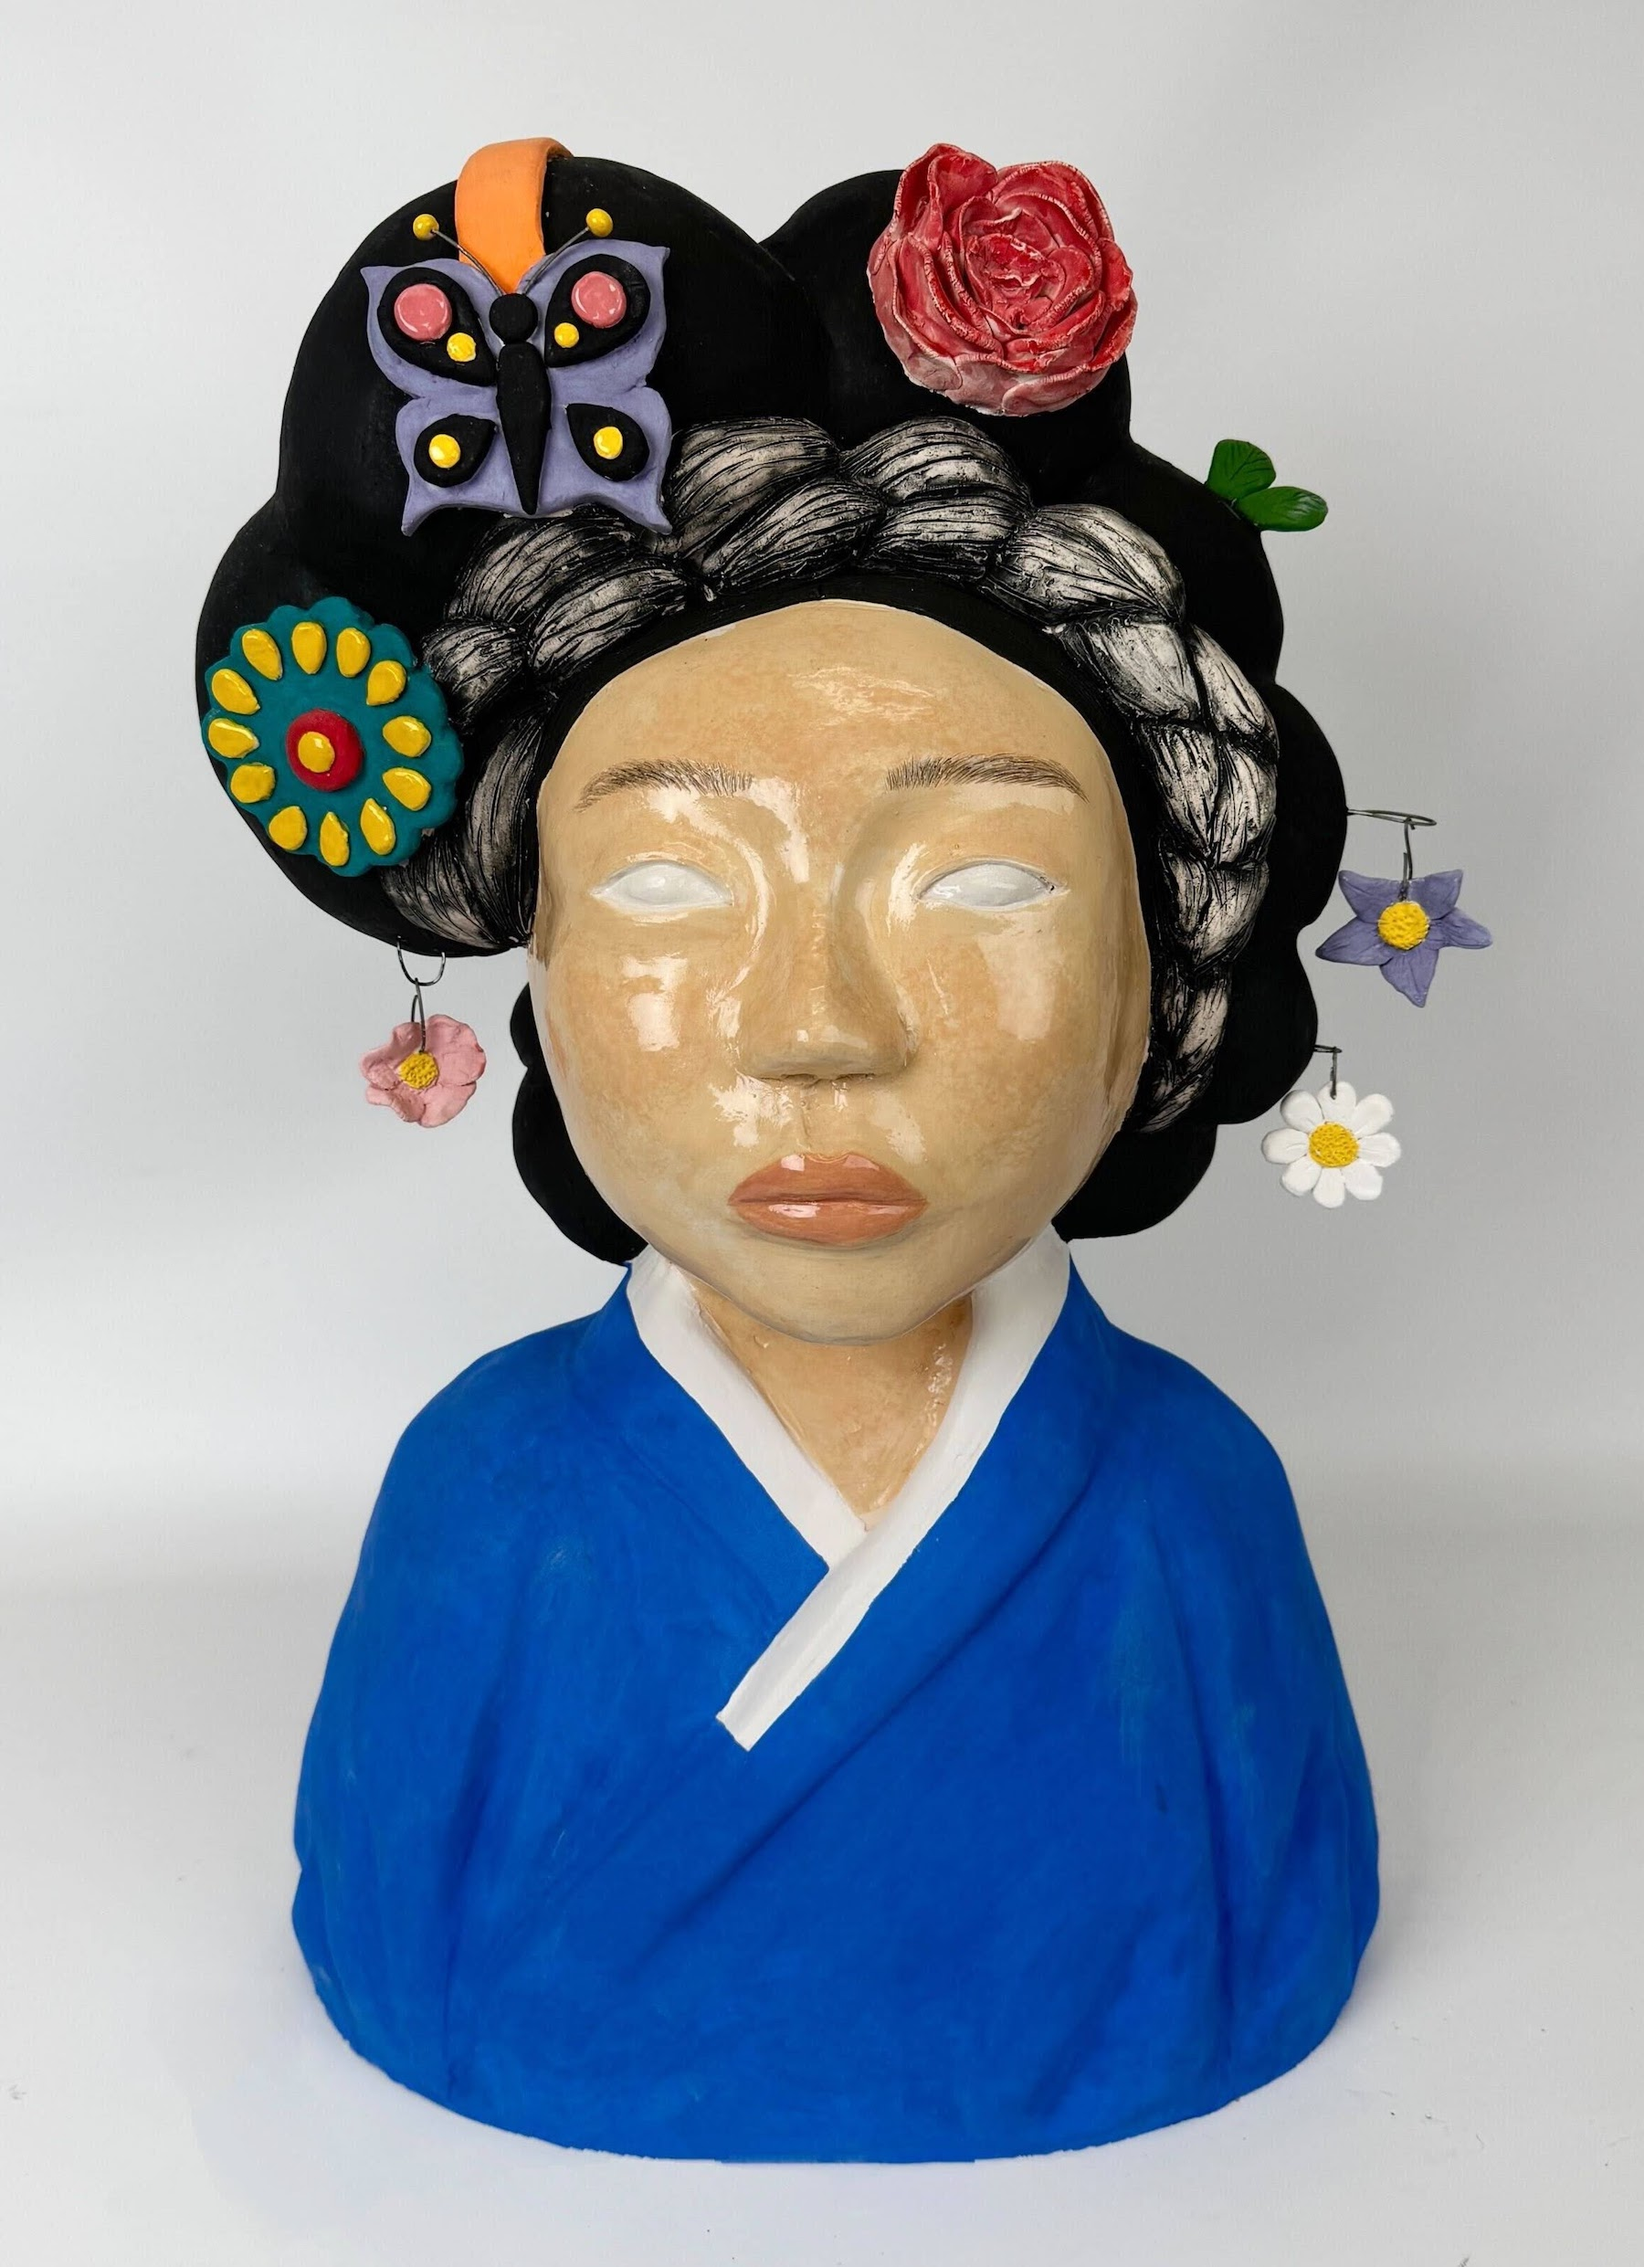
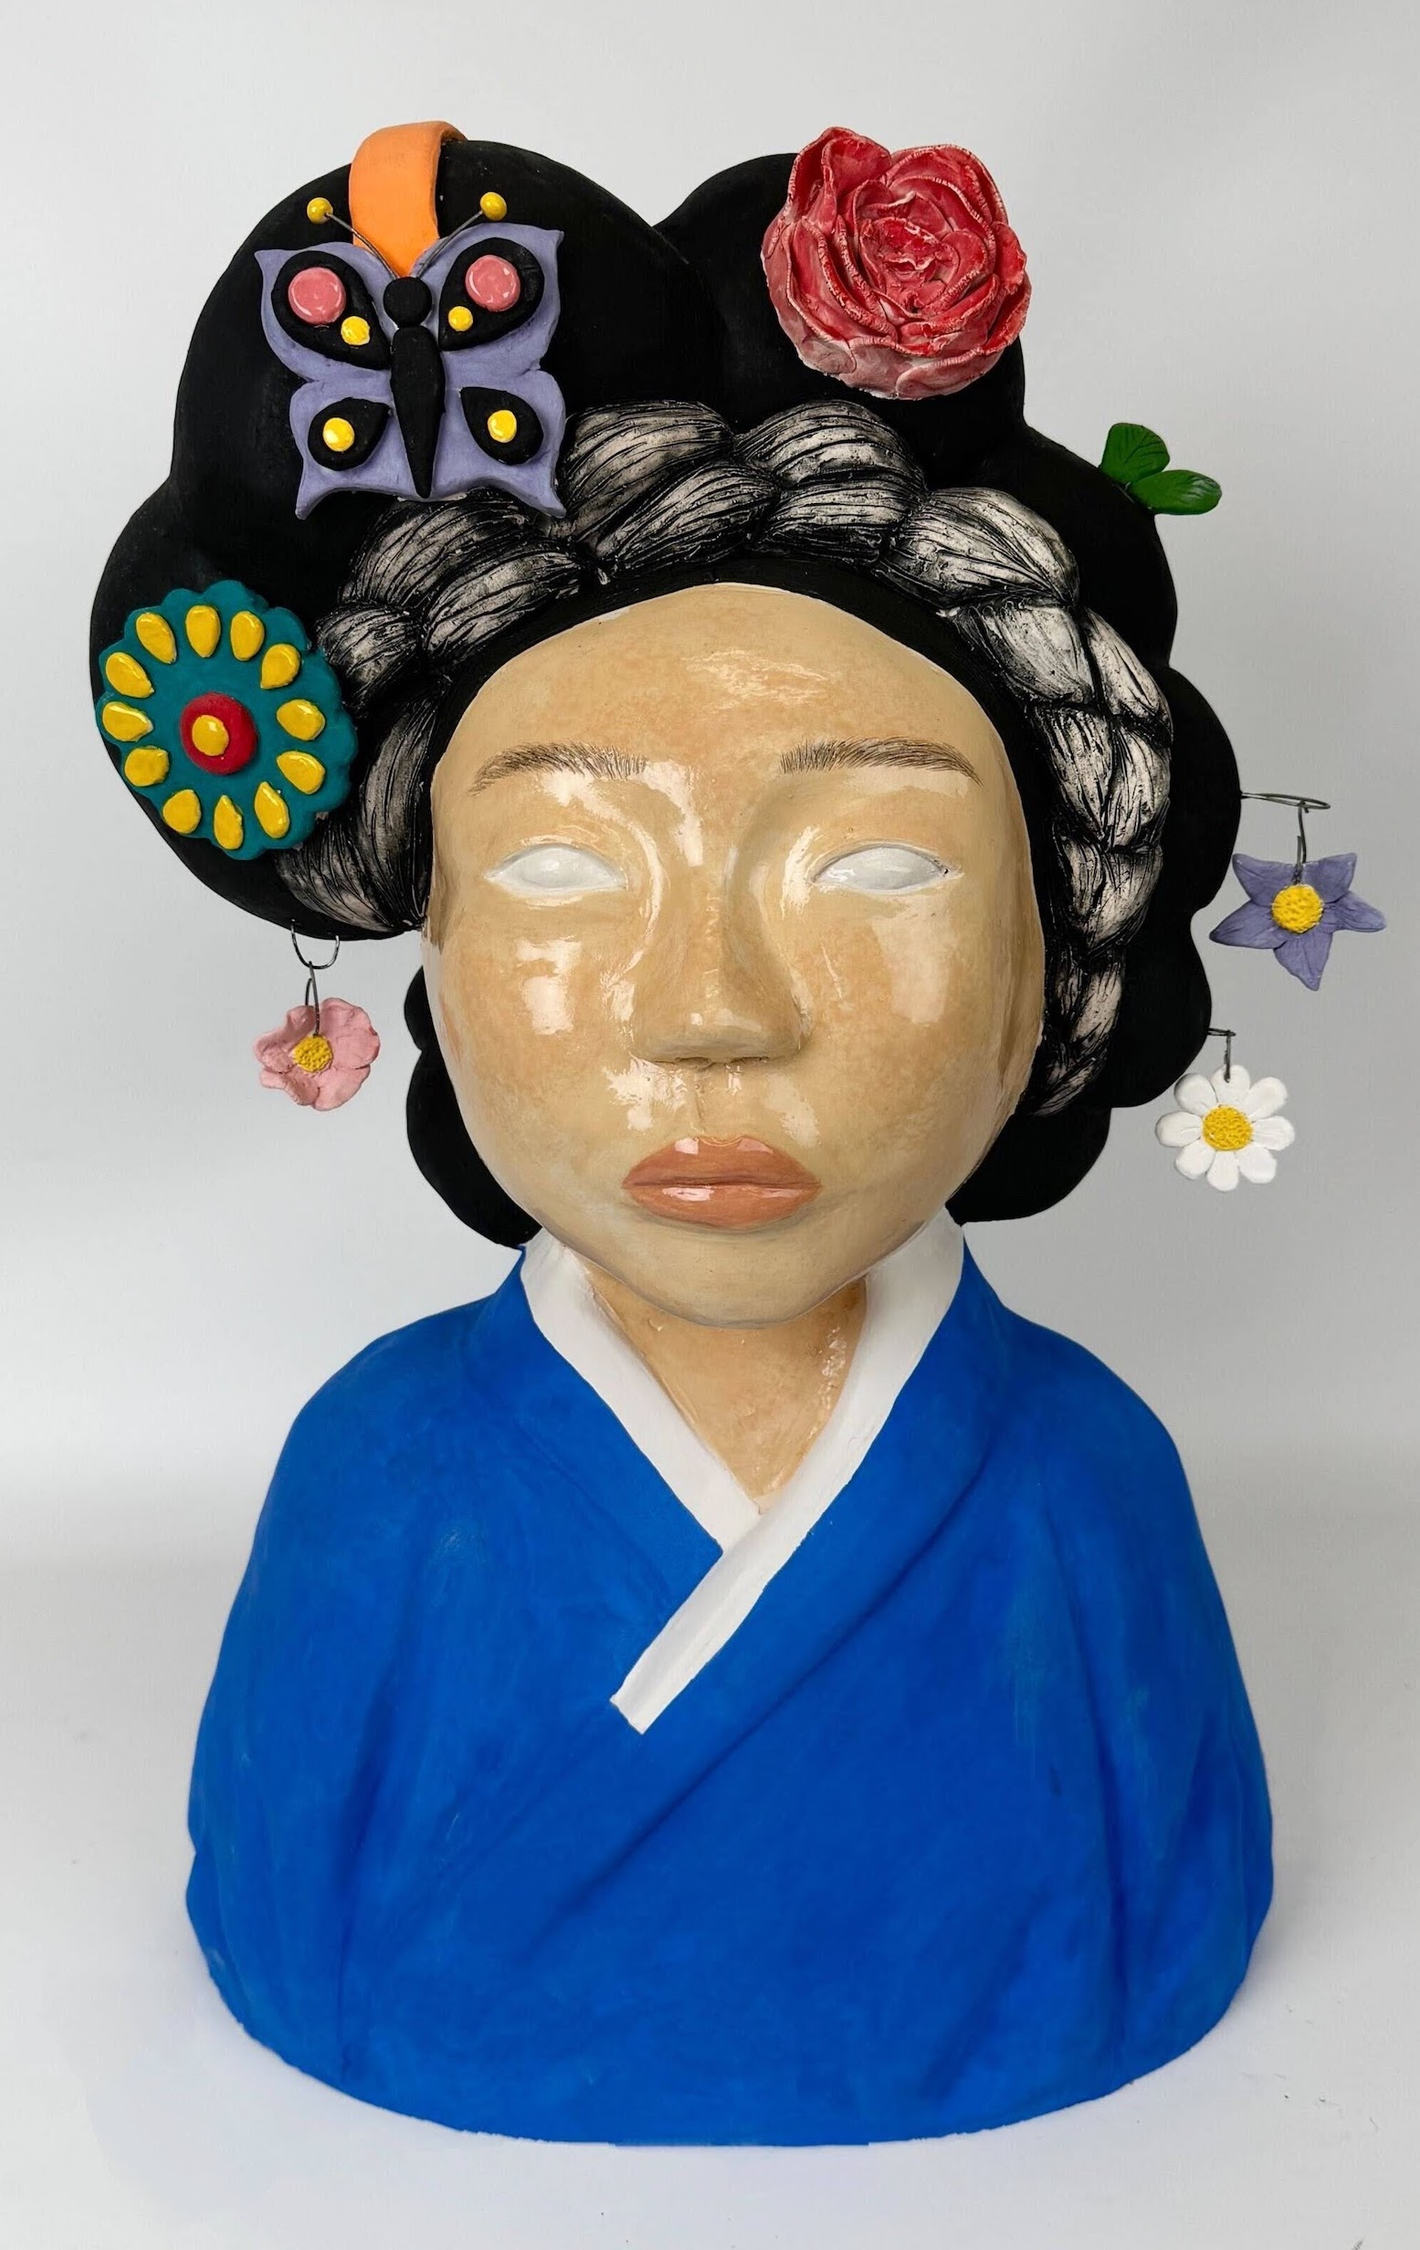
index images

diff --git a/index.html b/index.html
@@ -75,6 +75,8 @@
                             "images/index/bloom_index.jpg" /></div>
                 <div class="artwork-item"><img class="hundred-width" src=
                             "images/index/chick_mug.jpg" /></div>
+                <div class="artwork-item"><img class="hundred-width" src=
+                            "images/index/woman_squeezed.png" /></div>
             </div>
         </div>
     </body>
